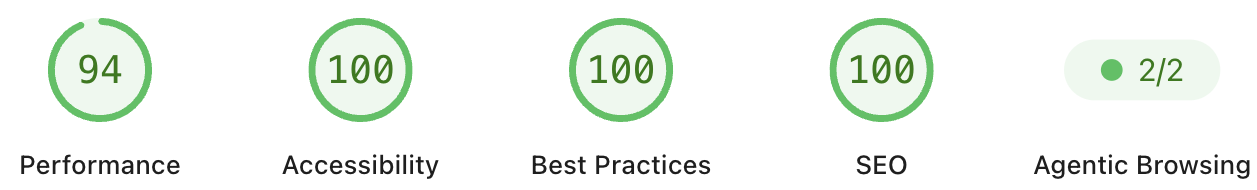
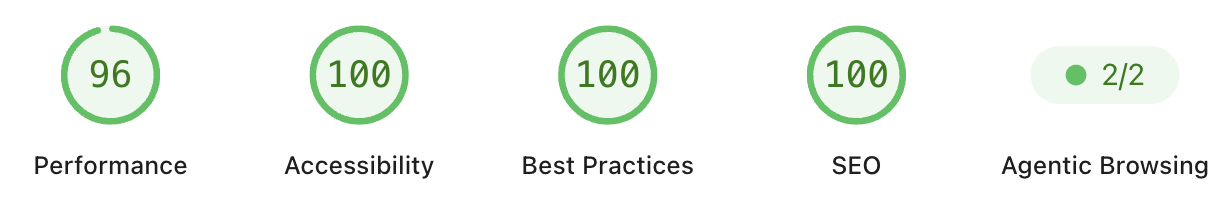
Update cleanup-pass field note for 96 mobile score
New mobile PageSpeed screenshot at 96 Performance. Update every 94
reference (copy, alt/title, meta, JSON-LD, footer), explain the
follow-up round that moved it from 94 to 96 with links to the two
related Signals, and point both View Full Report buttons at the new
PageSpeed run.

diff --git a/field-notes/the-cleanup-pass.html b/field-notes/the-cleanup-pass.html
@@ -9,7 +9,7 @@
 
     <meta
       name="description"
-      content="A walkthrough of the pass that took this site's own Lighthouse scores to 100 across the board on desktop and 94+ on mobile - image bugs, missing landmarks, touch targets, and alt text, one category at a time." />
+      content="A walkthrough of the pass that took this site's own Lighthouse scores to 100 across the board on desktop and 96 on mobile - image bugs, missing landmarks, touch targets, and alt text, one category at a time." />
 
     <meta charset="utf-8" />
 
@@ -57,7 +57,7 @@
         "@type": "Article",
         "@id": "https://scottlabz.com/field-notes/the-cleanup-pass.html",
         "headline": "The Cleanup Pass",
-        "description": "A walkthrough of the pass that took this site's own Lighthouse scores to 100 across the board on desktop and 94+ on mobile, one category at a time.",
+        "description": "A walkthrough of the pass that took this site's own Lighthouse scores to 100 across the board on desktop and 96 on mobile, one category at a time.",
         "url": "https://scottlabz.com/field-notes/the-cleanup-pass.html",
         "author": {
           "@id": "https://scottlabz.com/#scotttaylor"
@@ -73,7 +73,7 @@
     <meta property="og:title" content="The Cleanup Pass | Scott Labz" />
     <meta
       property="og:description"
-      content="A walkthrough of the pass that took this site's own Lighthouse scores to 100 across the board on desktop and 94+ on mobile, one category at a time." />
+      content="A walkthrough of the pass that took this site's own Lighthouse scores to 100 across the board on desktop and 96 on mobile, one category at a time." />
     <meta
       property="og:url"
       content="https://scottlabz.com/field-notes/the-cleanup-pass.html" />
@@ -82,7 +82,7 @@
       content="https://scottlabz.com/images/og-share.png" />
     <meta name="twitter:card" content="summary_large_image" />
     <meta name="twitter:title" content="The Cleanup Pass | Scott Labz" />
-    <meta name="twitter:description" content="A walkthrough of the pass that took this site's own Lighthouse scores to 100 across the board on desktop and 94+ on mobile, one category at a time." />
+    <meta name="twitter:description" content="A walkthrough of the pass that took this site's own Lighthouse scores to 100 across the board on desktop and 96 on mobile, one category at a time." />
     <meta name="twitter:image" content="https://scottlabz.com/images/og-share.png" />
 
     <style>
@@ -245,7 +245,7 @@
             - Performance, Accessibility, Best Practices, and SEO - and a page
             can look completely fine while quietly failing several of them at
             once. This is the pass that took this site's own scores from a mixed
-            bag to 100 across the board on desktop and 94 Performance with 100
+            bag to 100 across the board on desktop and 96 Performance with 100
             on the rest on mobile, not from one large fix, but from clearing a
             list of small, specific ones.
           </p>
@@ -435,7 +435,7 @@
           <h2>The scores</h2>
           <p>
             Desktop landed at 100 Performance, 100 Accessibility, 100 Best
-            Practices, and 100 SEO. Mobile landed at 94 Performance, with
+            Practices, and 100 SEO. Mobile now sits at 96 Performance, with
             Accessibility, Best Practices, and SEO all also at 100.
           </p>
           <div class="score-shots">
@@ -453,7 +453,7 @@
                   title="Lighthouse desktop scores: 100 Performance, 100 Accessibility, 100 Best Practices, 100 SEO"
                   loading="lazy" />
                 <a
-                  href="https://pagespeed.web.dev/analysis/https-scottlabz-com/9pm9v90pro?form_factor=desktop"
+                  href="https://pagespeed.web.dev/analysis/https-scottlabz-com/2w1iz1zn65?form_factor=desktop"
                   target="_blank"
                   rel="noopener"
                   class="score-shot-link"
@@ -468,14 +468,14 @@
               </div>
               <div class="score-shot-body">
                 <img
-                  src="../images/pagespeed-mobile.png?v=a087aeb46c"
+                  src="../images/pagespeed-mobile.png?v=2db037105b"
                   width="1382"
                   height="198"
-                  alt="Lighthouse mobile scores: 94 Performance, 100 Accessibility, 100 Best Practices, 100 SEO"
-                  title="Lighthouse mobile scores: 94 Performance, 100 Accessibility, 100 Best Practices, 100 SEO"
+                  alt="Lighthouse mobile scores: 96 Performance, 100 Accessibility, 100 Best Practices, 100 SEO"
+                  title="Lighthouse mobile scores: 96 Performance, 100 Accessibility, 100 Best Practices, 100 SEO"
                   loading="lazy" />
                 <a
-                  href="https://pagespeed.web.dev/analysis/https-scottlabz-com/9pm9v90pro?form_factor=mobile"
+                  href="https://pagespeed.web.dev/analysis/https-scottlabz-com/2w1iz1zn65?form_factor=mobile"
                   target="_blank"
                   rel="noopener"
                   class="score-shot-link"
@@ -486,10 +486,17 @@
           </div>
           <p>
             The mobile Performance score is the one that stayed short of full
-            marks, which tracks - mobile carries real constraints around
-            processing power and connection speed that a fixed desktop
-            environment doesn't, and closing that last gap further would mean
-            trading against those constraints rather than fixing another bug.
+            marks. It finished this pass at 94 and reached 96 after a
+            follow-up round: images below the fold now load only when scrolled
+            into view, the largest images were
+            <a href="/signals/re-encode-from-the-original.html">re-encoded from their original files</a>,
+            the tag manager waits until the page has finished loading, and a
+            <a href="/signals/whats-hiding-behind-the-library.html">JS library and three plugins</a>
+            the site no longer needed came out entirely. The remaining gap
+            tracks the real constraints of mobile - slower processors and
+            connections than a desktop environment - and closing it further
+            would mean trading against those constraints rather than fixing
+            another bug.
           </p>
         </section>
 
@@ -587,7 +594,7 @@
       <script src="/assets/js/main-min.js?v=1642cfb5cb" defer></script>
       <script src="/assets/js/footer-min.js?v=79b2a5af24" defer></script>
       <scott-footer
-        description="A walkthrough of the pass that took this site's own Lighthouse scores to 100 across the board on desktop and 94+ on mobile, one category at a time."></scott-footer>
+        description="A walkthrough of the pass that took this site's own Lighthouse scores to 100 across the board on desktop and 96 on mobile, one category at a time."></scott-footer>
     </div>
   </body>
 </html>
